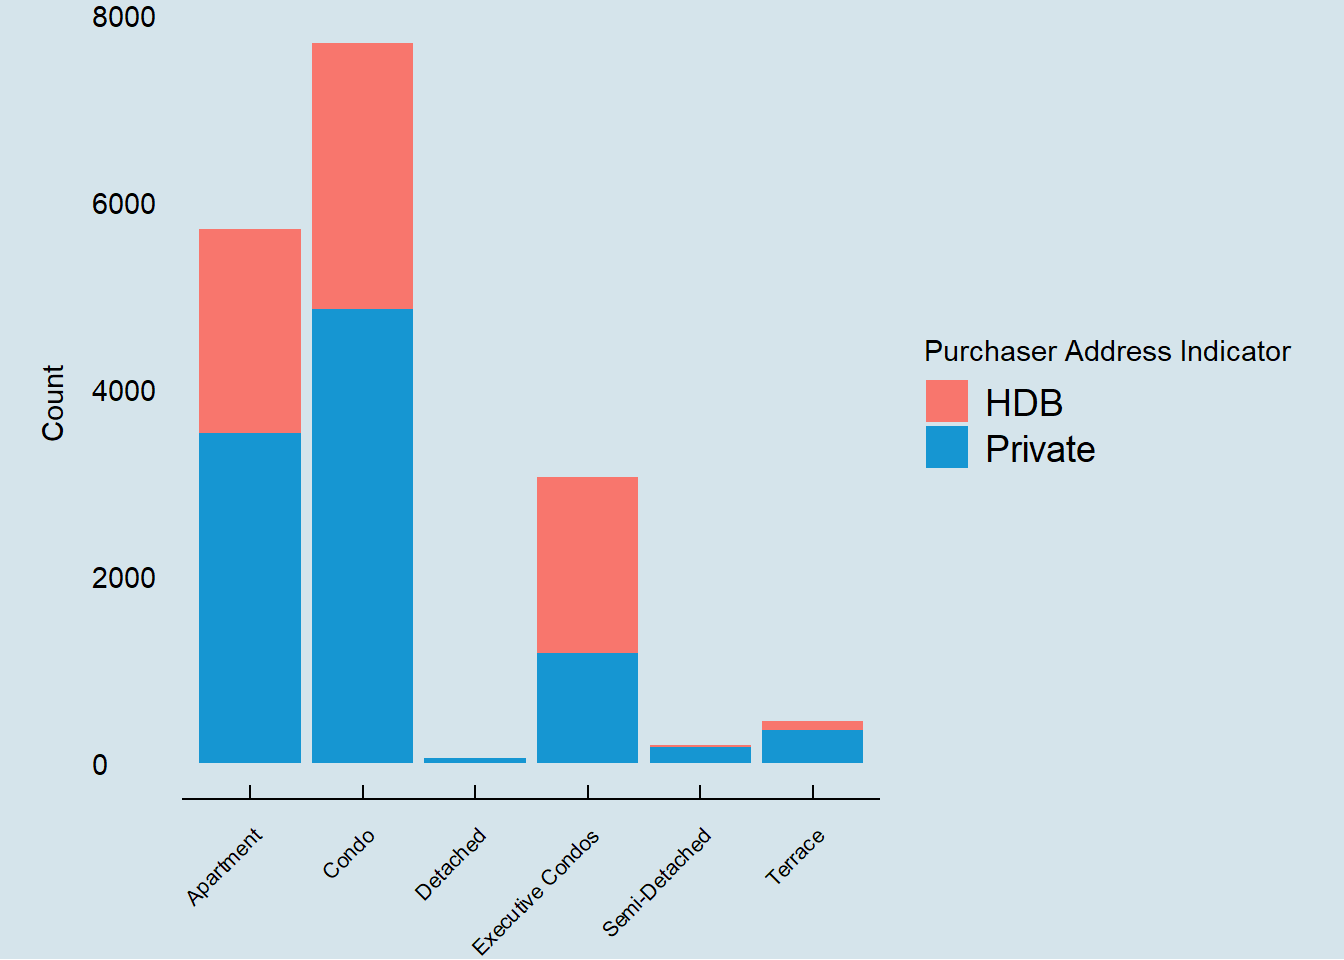
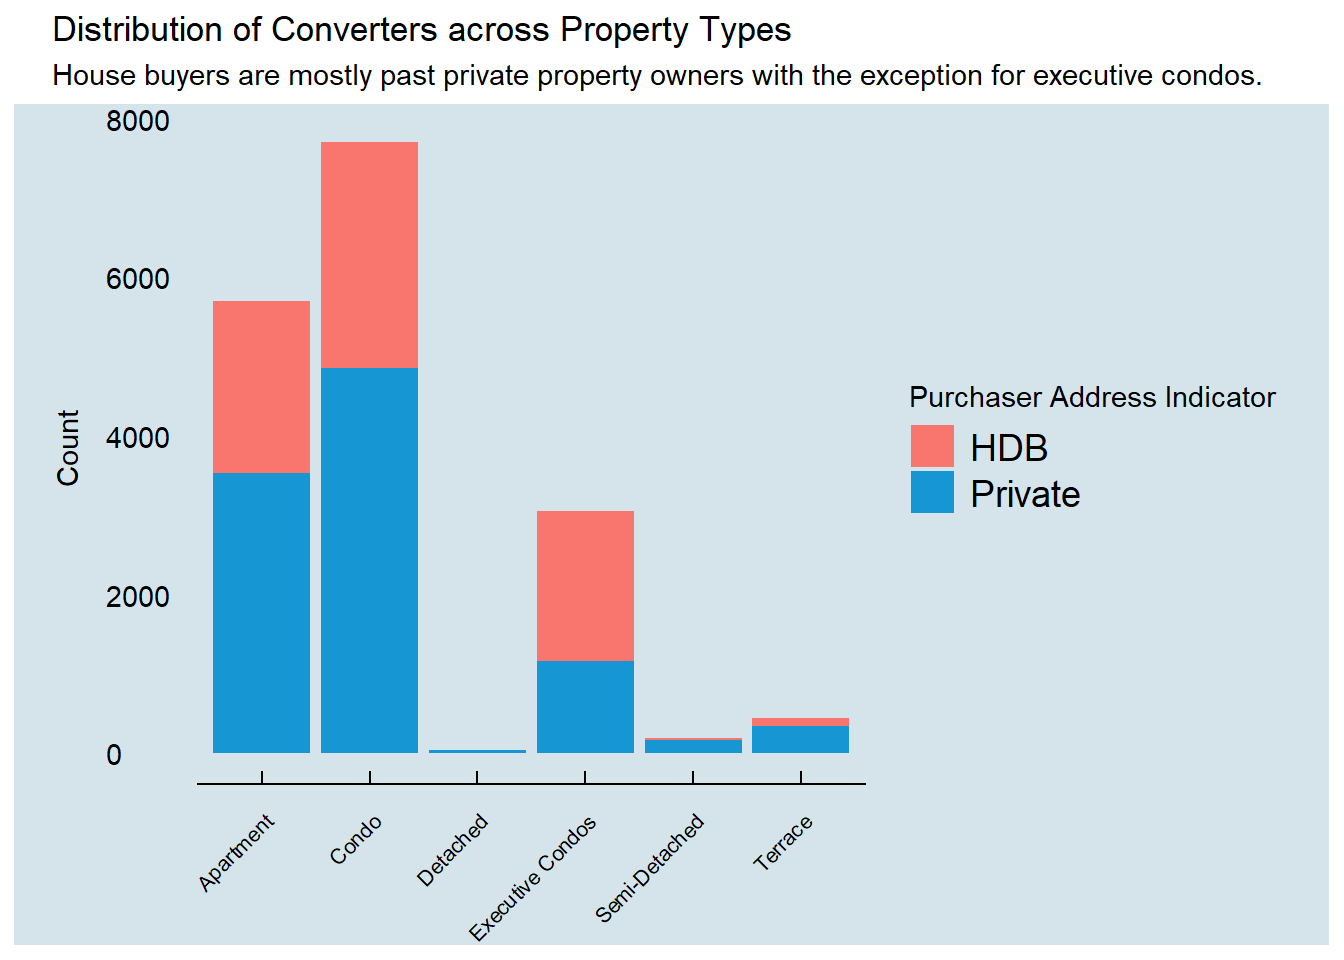
c

diff --git a/_site/Take-Home_Ex/Take-Home_Ex01/Take-Home_Ex01.html b/_site/Take-Home_Ex/Take-Home_Ex01/Take-Home_Ex01.html
@@ -206,8 +206,6 @@ pre > code.sourceCode > span > a:first-child::before { text-decoration: underlin
   <li><a href="#data-visualisation-2" id="toc-data-visualisation-2" class="nav-link" data-scroll-target="#data-visualisation-2">5. Data Visualisation (2)</a></li>
   <li><a href="#data-visualisation-3" id="toc-data-visualisation-3" class="nav-link" data-scroll-target="#data-visualisation-3">6. Data Visualisation (3)</a>
   <ul class="collapse">
-  <li><a href="#performing-the-necessary-and-additional-preprocessing-before-visualisation-2" id="toc-performing-the-necessary-and-additional-preprocessing-before-visualisation-2" class="nav-link" data-scroll-target="#performing-the-necessary-and-additional-preprocessing-before-visualisation-2">Performing the necessary and additional preprocessing before visualisation</a></li>
-  <li><a href="#data-visualisation" id="toc-data-visualisation" class="nav-link" data-scroll-target="#data-visualisation">6.1. Data Visualisation</a></li>
   <li><a href="#references" id="toc-references" class="nav-link" data-scroll-target="#references">References</a></li>
   </ul></li>
   </ul>
@@ -242,7 +240,7 @@ pre > code.sourceCode > span > a:first-child::before { text-decoration: underlin
     <div>
     <div class="quarto-title-meta-heading">Modified</div>
     <div class="quarto-title-meta-contents">
-      <p class="date-modified">April 27, 2024</p>
+      <p class="date-modified">April 28, 2024</p>
     </div>
   </div>
     
@@ -942,7 +940,7 @@ Note
 <ul>
 <li><strong><em>What this means is that:</em></strong> The spread or variability of the <code>PSF</code> is the least for Executive Condominium, followed by Apartments, Condominiums, Semi-Detached, and Terrace Houses. In other words, the <em>prices for these property types tend to cluster more closely around the median, as indicated by their smaller Interquartile Ranges (IQRs)</em>.On the other hand, Detached Houses have the largest IQR, indicating that the <em>prices for Detached Houses are more spread out across a wider range.</em> This means that there can be <em>significant variability in prices for Detached Houses</em>, with some properties priced much higher or lower than the median.</li>
 </ul></li>
-<li><strong>Finding2:</strong> The <span style="color:red;">Median </span> is the lowest for Detached Houses, followed by Semi-Detached Houses, Executive Condominiums, and Terrace Houses. Condominiums and Apartments have the highest median <code>PSF</code>. However, upon comparing this with the distribution plot in Chart II, it becomes apparent that Property Types such as Apartments, Condominiums, and Executive Condominiums also generally have lower median <code>Transacted Prices</code>despite having higher <code>PSF</code>.
+<li><strong>Finding2:</strong> The <span style="color:red;">Median</span> is the lowest for Detached Houses, followed by Semi-Detached Houses, Executive Condominiums, and Terrace Houses. Condominiums and Apartments have the highest median <code>PSF</code>. However, upon comparing this with the distribution plot in Chart II, it becomes apparent that Property Types such as Apartments, Condominiums, and Executive Condominiums also generally have lower median <code>Transacted Prices</code>despite having higher <code>PSF</code>.
 <ul>
 <li><strong><em>What this means is that:</em></strong> Comparing PSF between dissimilar property types, such as a condo and a landed property, may not provide an accurate sense of value and affordability. When comparing properties for value, PSF is best used between two similar property type or better, within the same project or block.(Chong, 2020)</li>
 </ul></li>
@@ -1146,7 +1144,10 @@ Note
 <section id="data-visualisation-3" class="level1">
 <h1>6. Data Visualisation (3)</h1>
 <p>In this section, we want to figure out which property type does the majority of the buyers convert from and to which property type too. This can be achieved by analyzing the <code>Purchase Address Indicator</code></p>
-<p>::: panel-tabset ## 6.1. Data Prep</p>
+<div class="tabset-margin-container"></div><div class="panel-tabset">
+<ul class="nav nav-tabs" role="tablist"><li class="nav-item" role="presentation"><a class="nav-link active" id="tabset-5-1-tab" data-bs-toggle="tab" data-bs-target="#tabset-5-1" role="tab" aria-controls="tabset-5-1" aria-selected="true">6.1. Data Prep</a></li><li class="nav-item" role="presentation"><a class="nav-link" id="tabset-5-2-tab" data-bs-toggle="tab" data-bs-target="#tabset-5-2" role="tab" aria-controls="tabset-5-2" aria-selected="false">6.2. Data Visualisation</a></li></ul>
+<div class="tab-content">
+<div id="tabset-5-1" class="tab-pane active" role="tabpanel" aria-labelledby="tabset-5-1-tab">
 <section id="performing-the-necessary-and-additional-preprocessing-before-visualisation-2" class="level3">
 <h3 class="anchored" data-anchor-id="performing-the-necessary-and-additional-preprocessing-before-visualisation-2">Performing the necessary and additional preprocessing before visualisation</h3>
 <div class="cell">
@@ -1161,8 +1162,8 @@ Note
 </details>
 </div>
 </section>
-<section id="data-visualisation" class="level2">
-<h2 class="anchored" data-anchor-id="data-visualisation">6.1. Data Visualisation</h2>
+</div>
+<div id="tabset-5-2" class="tab-pane" role="tabpanel" aria-labelledby="tabset-5-2-tab">
 <div class="cell">
 <details>
 <summary>Show the code</summary>
@@ -1181,10 +1182,13 @@ Note
 <span id="cb46-13"><a href="#cb46-13" aria-hidden="true" tabindex="-1"></a>    <span class="at">panel.grid.major =</span> <span class="fu">element_blank</span>(),  <span class="co"># Remove major gridlines</span></span>
 <span id="cb46-14"><a href="#cb46-14" aria-hidden="true" tabindex="-1"></a>    <span class="at">panel.grid.minor =</span> <span class="fu">element_blank</span>(),  <span class="co"># Remove minor gridlines</span></span>
 <span id="cb46-15"><a href="#cb46-15" aria-hidden="true" tabindex="-1"></a>    <span class="at">panel.spacing =</span> <span class="fu">unit</span>(<span class="fl">0.01</span>, <span class="st">"lines"</span>)</span>
-<span id="cb46-16"><a href="#cb46-16" aria-hidden="true" tabindex="-1"></a>  )</span>
-<span id="cb46-17"><a href="#cb46-17" aria-hidden="true" tabindex="-1"></a></span>
-<span id="cb46-18"><a href="#cb46-18" aria-hidden="true" tabindex="-1"></a><span class="co"># Print the stacked bar chart</span></span>
-<span id="cb46-19"><a href="#cb46-19" aria-hidden="true" tabindex="-1"></a><span class="fu">print</span>(stacked_bar)</span></code><button title="Copy to Clipboard" class="code-copy-button"><i class="bi"></i></button></pre></div>
+<span id="cb46-16"><a href="#cb46-16" aria-hidden="true" tabindex="-1"></a>  ) <span class="sc">+</span></span>
+<span id="cb46-17"><a href="#cb46-17" aria-hidden="true" tabindex="-1"></a>  </span>
+<span id="cb46-18"><a href="#cb46-18" aria-hidden="true" tabindex="-1"></a>  <span class="fu">plot_annotation</span>(<span class="at">title =</span> <span class="st">"Distribution of Converters across Property Types"</span>,</span>
+<span id="cb46-19"><a href="#cb46-19" aria-hidden="true" tabindex="-1"></a>                  <span class="at">subtitle =</span> <span class="st">"House buyers are mostly past private property owners with the exception for executive condos."</span>)</span>
+<span id="cb46-20"><a href="#cb46-20" aria-hidden="true" tabindex="-1"></a></span>
+<span id="cb46-21"><a href="#cb46-21" aria-hidden="true" tabindex="-1"></a><span class="co"># Print the stacked bar chart</span></span>
+<span id="cb46-22"><a href="#cb46-22" aria-hidden="true" tabindex="-1"></a><span class="fu">print</span>(stacked_bar)</span></code><button title="Copy to Clipboard" class="code-copy-button"><i class="bi"></i></button></pre></div>
 </details>
 <div class="cell-output-display">
 <p><img src="Take-Home_Ex01_files/figure-html/unnamed-chunk-22-1.png" class="img-fluid" width="672"></p>
@@ -1193,9 +1197,11 @@ Note
 <p>From our findings:</p>
 <ul>
 <li><p>Most of the HDB converters purchase Apartment, Condos and Executive Condos. Few purchased Detached , semi-Detached and Terrace Houses</p></li>
-<li><p>Also, most of the house buyers are past private property owners with the exception for executive condos.</p></li>
+<li><p>Also, most of the house buyers are mostly past private property owners with the exception for executive condos.</p></li>
 </ul>
-</section>
+</div>
+</div>
+</div>
 <section id="references" class="level2">
 <h2 class="anchored" data-anchor-id="references">References</h2>
 <ul>
